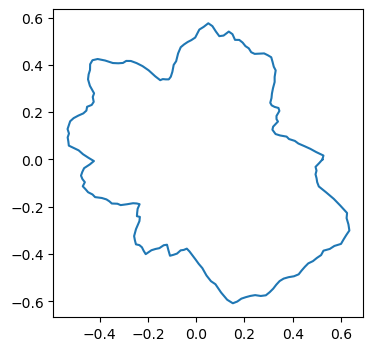
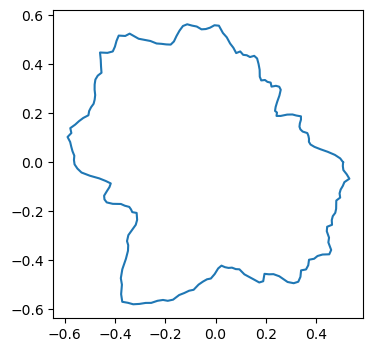
...

diff --git a/rumore/rumore.py b/rumore/rumore.py
@@ -224,22 +224,17 @@ def hash11(hx):
     return to01(h)*2 - 1
 
 # 2D combine
-def hash21(hx, hy):
+def hash21i(hx, hy):
     hx, hy = [uint64(v) for v in [hx, hy]]
     h  = np.uint64(cfg.seed)
     h  = hashf(h ^ (_u64(hx) + C1))
     h  = hashf(h ^ (_u64(hy) + C2))
-    return to01(h)*2 - 1
+    return h
+
+def hash21(hx, hy):
+    return to01(hash21i(hx, hy))*2 - 1
 
 # 3D combine
-def hash31(hx, hy, hz):
-    hx, hy, hz = [uint64(v) for v in [hx, hy, hz]]
-    h  = np.uint64(cfg.seed)
-    h  = hashf(h ^ (_u64(hx) + C1))
-    h  = hashf(h ^ (_u64(hy) + C2))
-    h  = hashf(h ^ (_u64(hz) + C3))
-    return to01(h)*2 - 1
-
 def hash31i(hx, hy, hz):
     hx, hy, hz = [uint64(v) for v in [hx, hy, hz]]
     h  = np.uint64(cfg.seed)
@@ -247,6 +242,9 @@ def hash31i(hx, hy, hz):
     h  = hashf(h ^ (_u64(hy) + C2))
     h  = hashf(h ^ (_u64(hz) + C3))
     return h
+
+def hash31(hx, hy, hz):
+    return to01(hash31i(hx, hy, hz))*2 - 1
 
 def hash33(hx, hy, hz):
     hx, hy, hz = [uint64(v + cfg.seed) for v in [hx, hy, hz]]
@@ -312,12 +310,22 @@ def grad_noise1(x):
     # From https://www.shadertoy.com/view/3sd3Rs
     return 2*mix( g0*(f-0.0), g1*(f-1.0), u)
 
-def grad21(x, y):
-    theta = hash21(x, y)*np.pi
-    return np.cos(theta), np.sin(theta)
+def grad2(x, y):
+    N = 64
+    if state.sphere is None:
+        t = np.linspace(0, np.pi*2, N, endpoint=False)
+        state.circle = np.vstack([np.cos(t), np.sin(t)]).T
+        np.random.default_rng(cfg.seed).shuffle(state.circle)
+        state.circle = state.circle.T
+
+    i = hash21i(x, y)&(N-1)
+    return state.circle[:, i]
+
+    # theta = hash21(x, y)*np.pi
+    # return np.cos(theta), np.sin(theta)
 
 def dotgrad21(x, y, ox, oy, f):
-    gx, gy = grad21(x + ox, y + oy)
+    gx, gy = grad2(x + ox, y + oy)
     return gx*(f[0]-ox) + gy*(f[1]-oy)
 
 def grad_noise2(x, y):
@@ -330,7 +338,7 @@ def grad_noise2(x, y):
     c = dotgrad21(i[0], i[1], 0.0, 1.0, f)
     d = dotgrad21(i[0], i[1], 1.0, 1.0, f)
 
-    scale = 1.4142135623730950488 #1.0/sqrt(0.5)
+    scale = 1.414213562373095 #1/sqrt(0.5**2 + 0.5**2)
     return mix(mix(a, b, u[0]),
                mix(c, d, u[0]), u[1])*scale
 
@@ -350,15 +358,11 @@ def fibonacci_sphere(samples=100):
     return np.array(points)
 
 def grad3(x, y, z):
-    N = 256
+    N = 64
     if state.sphere is None:
         state.sphere = fibonacci_sphere(N)
-        np.random.shuffle(state.sphere)
+        np.random.default_rng(cfg.seed).shuffle(state.sphere)
         state.sphere = state.sphere.T
-    # res = hash33(x, y, z)
-    # print(res.shape)
-    # return res
-
     i = hash31i(x, y, z)&(N-1)
     return state.sphere[:, i]
 
@@ -399,7 +403,7 @@ def grad_noise3(x, y, z):
     g = dotgrad31(i[0], i[1], i[2], 0.0, 1.0, 1.0, ff)
     h = dotgrad31(i[0], i[1], i[2], 1.0, 1.0, 1.0, ff)
 
-    scale = 1.15470053837925152901829*2 # 1.0/sqrt(0.75)
+    scale = 1.1547005383792517 ##1/sqrt(0.5**2 + 0.5**2 + 0.5**3)
     return mix(mix(mix(a, b, u[0]),
                    mix(c, d, u[0]), u[1]),
                mix(mix(e, f, u[0]),
@@ -410,15 +414,24 @@ def calc_fractal_bounding(octaves):
     key = (octaves, cfg.falloff)
     if key in state.fractal_bounding:
         return state.fractal_bounding[key]
+    v = 0.0
+    a = 1.0
+    amp = 0.0
+    for i in range(octaves):
+        amp += a
+        a *= cfg.falloff
+    bound = 1.0 / amp
+    state.fractal_bounding[key] = bound
+    return bound
 
-    r = cfg.falloff
-    if r == 1.0:
-        fb = 1.0 / max(1, octaves)        # handle the r=1 edge case
-    else:
-        fb = (1.0 - r) / (1.0 - r**octaves)
+    # r = cfg.falloff
+    # if r == 1.0:
+    #     fb = 1.0 / max(1, octaves)        # handle the r=1 edge case
+    # else:
+    #     fb = (1.0 - r) / (1.0 - r**octaves)
 
-    state.fractal_bounding[key] = fb
-    return fb
+    # state.fractal_bounding[key] = fb
+    # return fb
 
     # falloff = cfg.falloff
     # amp = falloff
